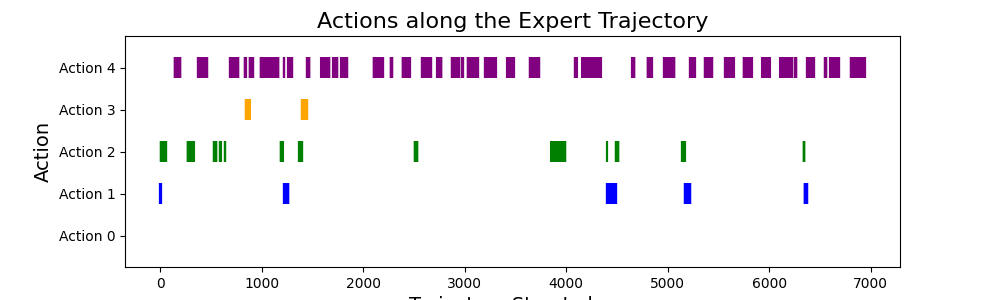
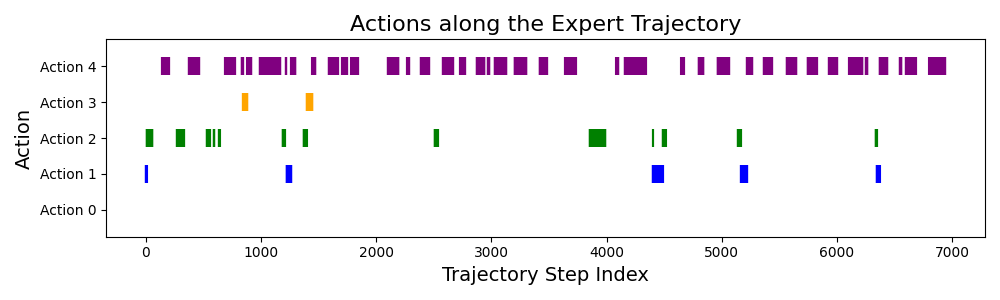
commit

diff --git a/plot_test.py b/plot_test.py
@@ -30,6 +30,7 @@ def plot_expert_action_traj(actions, n_actions, test_folder):
     plt.xlabel("Trajectory Step Index", fontsize=14)
     plt.ylabel("Action", fontsize=14)
     plt.title("Actions along the Expert Trajectory", fontsize=16)
+    plt.tight_layout()
     plt.savefig(test_folder+'actions_along_trajectories.png')
 
 def evaluate_action_distribution_metrics(actions, action_probability, action_of_interest):
